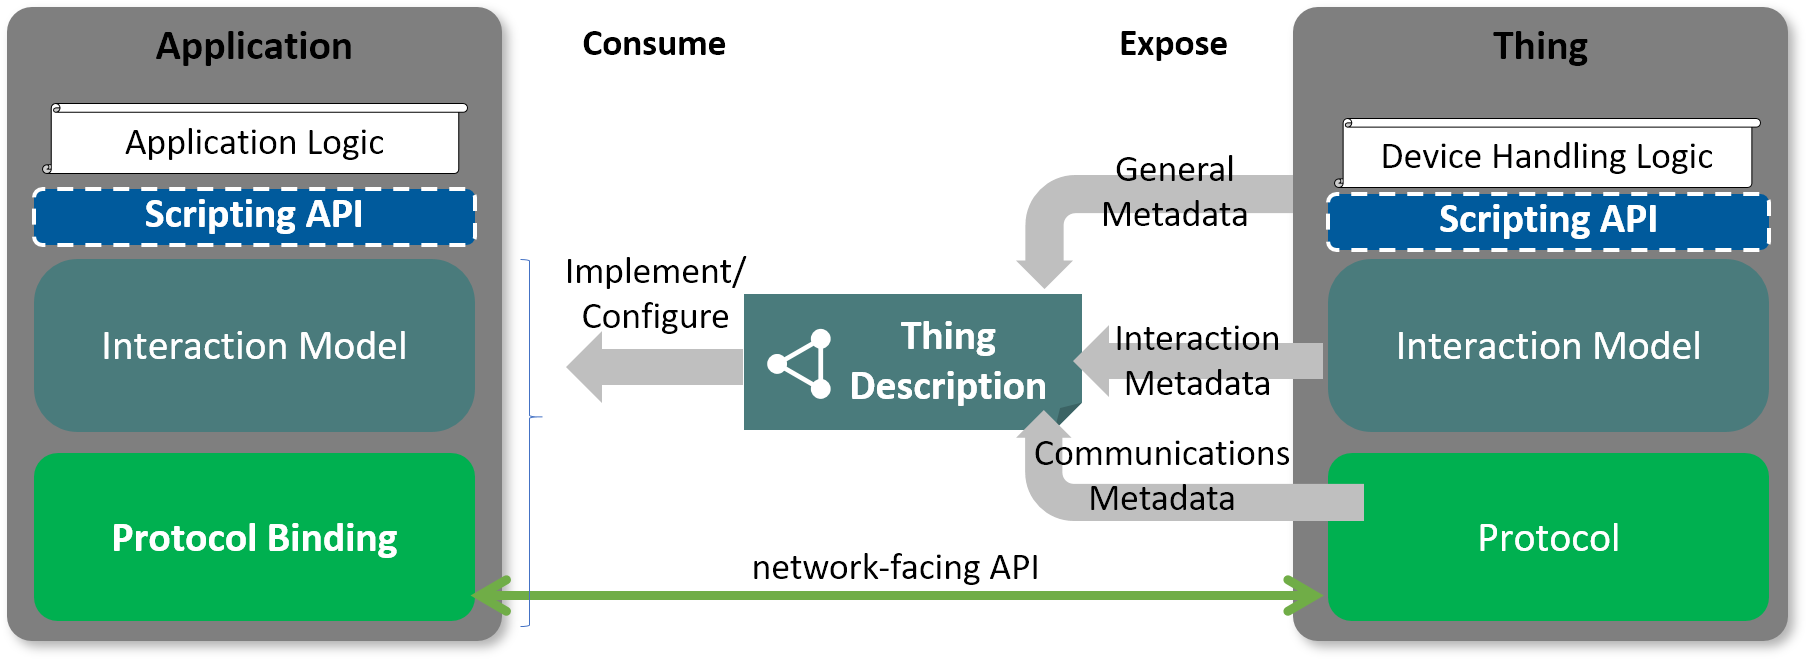
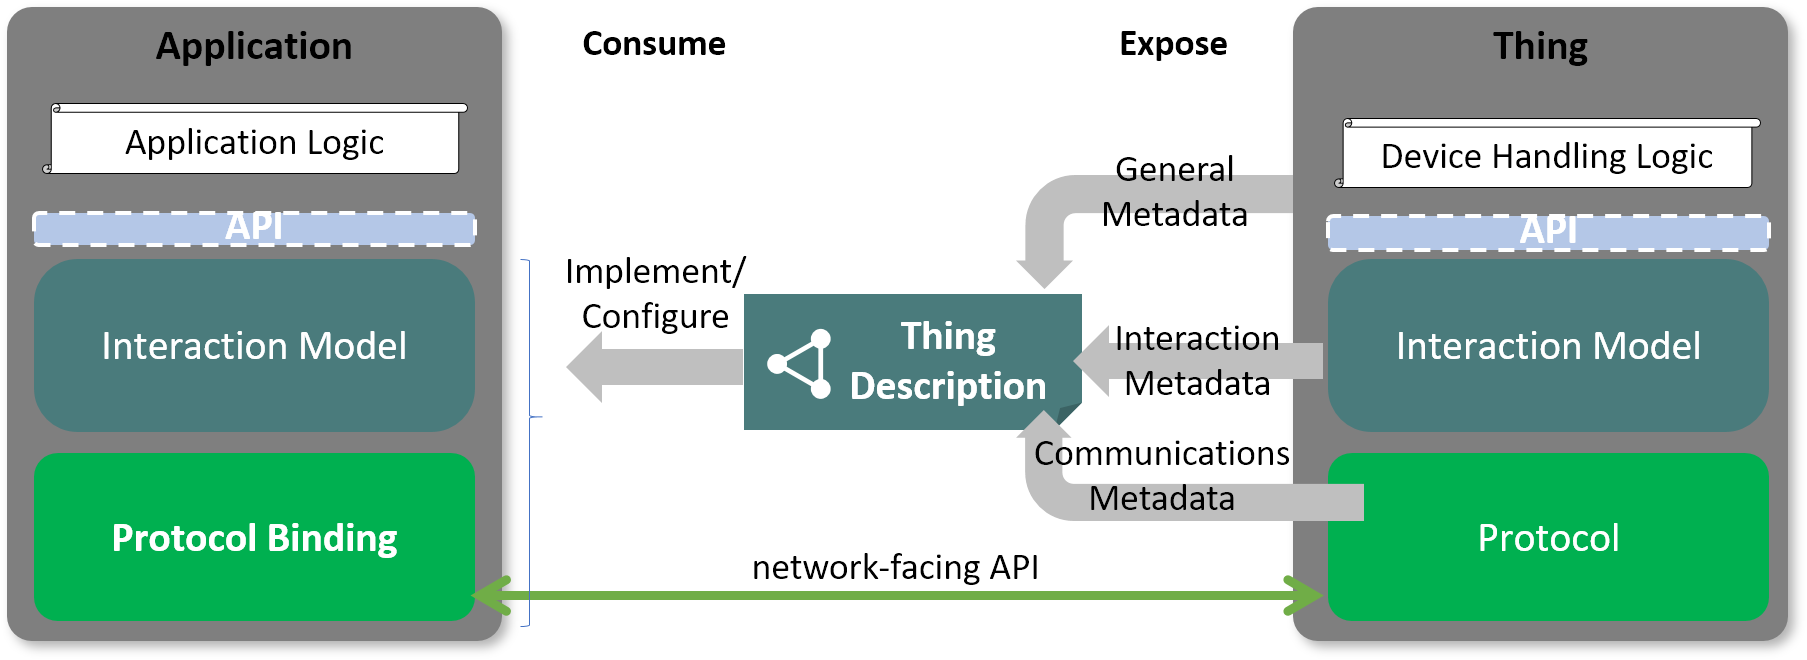
Move Scripting API to Servient Architecture

Changed region(s): [[0.7128, 0.2727, 0.9917, 0.3939], [0.0, 0.2727, 0.2789, 0.3939]]

diff --git a/index.html b/index.html
@@ -527,7 +527,7 @@
         </ul>
       </section>
 
-      <section id="sec-building-blocks-scripting-api">
+      <!--<section id="sec-building-blocks-scripting-api">
         <h2>WoT Scripting API</h2>
         <p>
           The <a href="https://w3c.github.io/wot-scripting-api/">WoT Scripting API</a> is an optional building block that eases IoT application development.
@@ -546,7 +546,7 @@
           <li><b><code>ConsumedThing</code> interface</b> as Cient API to and consume <a href="https://github.com/w3c/wot-architecture/blob/master/terminology.md#user-content-thing">Things</a> over the network or locally (e.g., physically attached hardware)</li>
           <li><b><code>ExposedThing</code> interface</b> as Server API to configure and expose <a href="https://github.com/w3c/wot-architecture/blob/master/terminology.md#user-content-thing">Things</a> over the network</li>
         </ul>
-      </section>
+      </section>-->
     </section>
 
     <section id="sec-servient-architecture">
